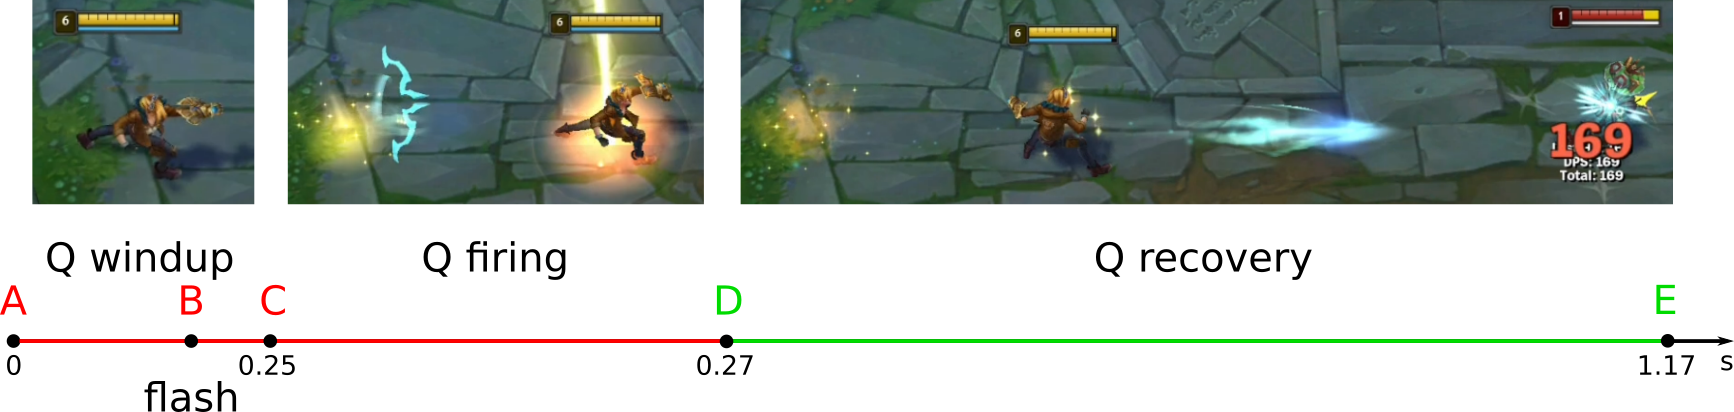
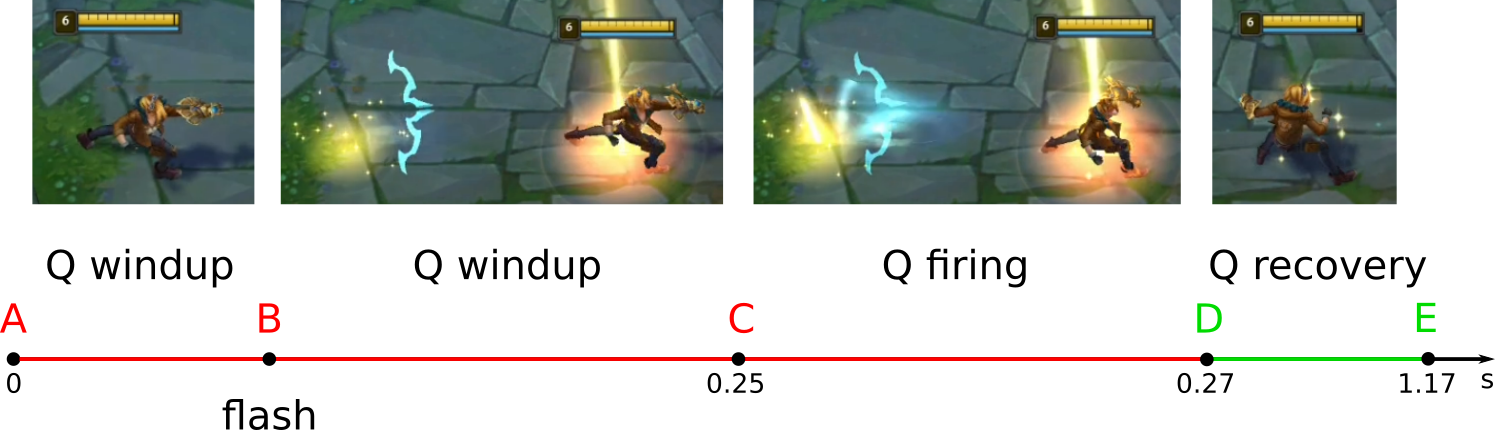
Continue the "Practice. Micromanagement" section

diff --git a/manuscript/Practice/micromanagement.md b/manuscript/Practice/micromanagement.md
@@ -515,6 +515,19 @@ I> **Стак** или заряд (stack) — это механика усили
 
 > Если смена позиции происходит для нападения, flash надо нажимать как можно позже. Это не даст противнику времени на реакцию. Если позиция меняется для отступления — flash надо нажимать как можно раньше. Это выиграет максимум времени в сражении.
 
+Второй пример смены позиции чемпиона с помощью flash — **атакующее комбо Q-F Ezreal**. Его демонстрирует [следующее видео](https://www.youtube.com/shorts/QG7wX79RXAg).
+
+Умение Q заключается в том, что Ezreal посылает в противника снаряд. Он летит по прямой траектории и имеет большой радиус действия. Комбинация с flash позволяет увеличить радиус умения ещё больше и маскировать анимацию снаряда. Благодаря этому, противнику сложнее уклониться от него.
+
+I> **Маскировка анимации** — это проигрывание анимации одного действия поверх анимации другого действия. При этом чемпион полностью исполняет оба действия. Но для второго анимация искажается, не проигрывается или проигрывается не полностью.
+
+Иллюстрация 3-12 демонстрирует временную диаграмму комбинации Q-F Ezreal.
+
+{caption: "Иллюстрация 3-12. Временная диаграмма комбо Ezreal Q-F", width: "100%"}
+![Ezreal комбо Q-F](images/Practice/ezreal-q-f-combo.png)
+
+>>>>
+
 Рассмотрим второй пример смены позиции чемпиона с помощью flash в момент окончания windup. Поговорим об **атакующем комбо Q-F Ezreal**. Его демонстрирует [следующее видео](https://www.youtube.com/shorts/QG7wX79RXAg).
 
 Идея комбо Q-F заключается в том, чтобы увеличить дальность умения Q. Для этого Ezreal начинает проигрывать фазу анимации windup на следующей дальности от противника:
